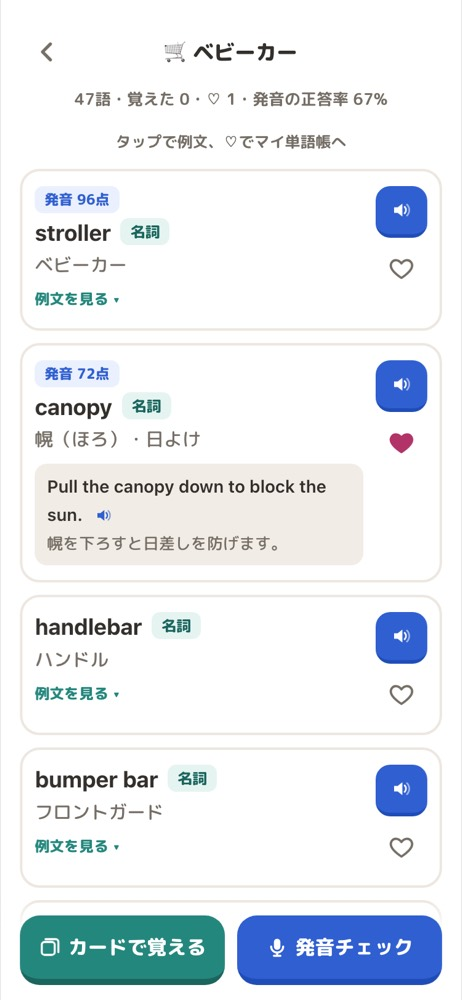
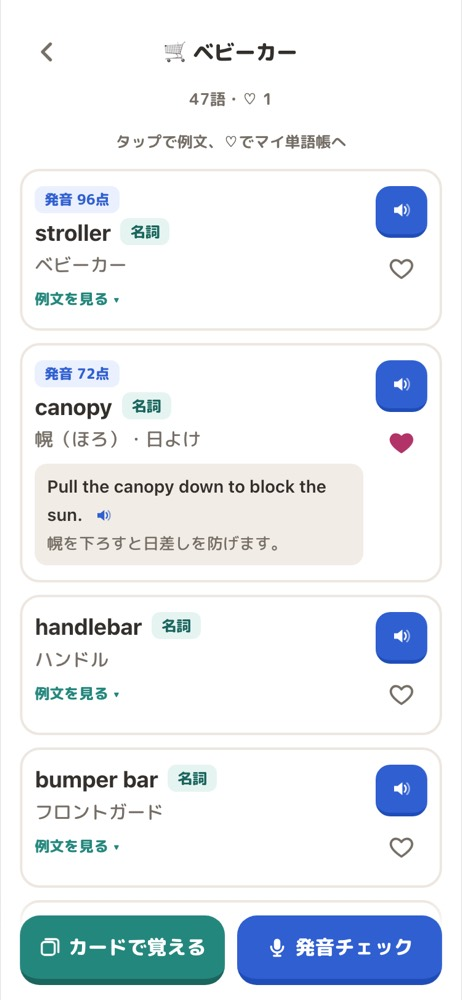
発音チェックの聞き取りを安定させ、短い単語の採点を改善する
- お手本音声を止めるときに音の出口を手放させ、前の聞き取りが終わってから次を始める(「前へ」で戻ると聞き取らない対策)
- 同じ音の聞き違い(brake と break など)や複数形の s は言えたとみなし、r/l や母音の違いは区別する
- 何も聞き取れないまま7秒たったら止めて言い方を案内。こちらから止めたときの aborted はエラーにしない
- カテゴリ一覧とホームから「覚えた」と発音の正答率を外した(正答率は発音チェックの中だけ)
- 確認用サーバーのポートを 8770 に変更(8765 は別のツールが使用)

Changed region(s): [[0.2727, 0.093, 0.8485, 0.124], [0.1515, 0.093, 0.2424, 0.124]]

diff --git a/index.html b/index.html
@@ -156,7 +156,6 @@
   .cat-name{ font-size:17px; font-weight:800; line-height:1.35; }
   .cat-desc{ font-size:12.5px; color:var(--sub); font-weight:700; }
   .cat-count{ display:flex; flex-direction:column; align-items:flex-end; flex-shrink:0; font-size:13px; color:var(--sub); font-weight:800; }
-  .cat-count .learned{ color:var(--accent); font-size:11.5px; }
   /* 例文・メモはふだん閉じておき、行をタップしたら開く(単語をぱっと見渡せるように) */
   .item-row:not(.open) .item-details{ display:none; }
   .item-row.open .item-more{ display:none; }
@@ -593,7 +592,14 @@ function speak(text, slow){
 }
 function stopSpeech(){
   if("speechSynthesis" in window) window.speechSynthesis.cancel();
-  if(currentAudio){ currentAudio.pause(); currentAudio = null; }
+  if(currentAudio){
+    const a = currentAudio;
+    currentAudio = null;
+    a.pause();
+    // iPhone では、音声を流したあとにすぐマイクを使うと音を拾えないことがある。中身を外して音の出口を手放させる
+    a.removeAttribute("src");
+    try{ a.load(); }catch(e){}
+  }
 }
 /* 収録済みの単語・例文は、AIで作ったお手本音声(audio/)を鳴らす。音声ファイルが無いもの(自作単語・音声を作る前に足した項目)や、
    文言を書き換えて音声と合わなくなったものは、端末の読み上げにする */
@@ -789,14 +795,13 @@ function renderHomeBody(){
   }
   const tile = c => {
     const items = itemsOfCat(c.id);
-    const learned = items.filter(isLearned).length;
     return `<button class="cat-tile" data-cat="${c.id}">
       <span class="cat-icon" aria-hidden="true">${c.icon}</span>
       <span class="cat-text">
         <span class="cat-name">${esc(c.name)}</span>
         <span class="cat-desc">${esc(c.desc)}</span>
       </span>
-      <span class="cat-count">${items.length}${c.kind === "phrase" ? "フレーズ" : "語"}${learned ? `<span class="learned">覚えた ${learned}</span>` : ""}</span>
+      <span class="cat-count">${items.length}${c.kind === "phrase" ? "フレーズ" : "語"}</span>
     </button>`;
   };
   body.innerHTML = `
@@ -815,11 +820,10 @@ function renderCategory(){
   const c = catById(currentCatId);
   if(!c){ go("home"); return; }
   const items = itemsOfCat(c.id);
+  // 「覚えた」はマイ単語帳で付けるもの、発音の正答率は発音チェックの中で見せるものなので、ここには出さない
   const summary = () => {
-    const learned = items.filter(isLearned).length;
     const fav = items.filter(isFav).length;
-    const rate = pronRate(items);
-    return `${items.length}${c.kind === "phrase" ? "フレーズ" : "語"}・覚えた ${learned}${fav ? `・♡ ${fav}` : ""}${rate === null ? "" : `・発音の正答率 ${rate}%`}`;
+    return `${items.length}${c.kind === "phrase" ? "フレーズ" : "語"}${fav ? `・♡ ${fav}` : ""}`;
   };
   app.innerHTML = `
     <div class="topbar">
@@ -1362,6 +1366,7 @@ const PRON_PASS = 80;
 const SpeechRec = window.SpeechRecognition || window.webkitSpeechRecognition || null;
 let pron = null;       // 発音チェックの進行
 let currentRec = null; // 聞き取り中の音声認識
+let recRunning = 0; // 終わりきっていない聞き取りの数(前のが終わる前に次を始めると、iPhone では失敗することがある)
 function stopListening(){
   if(!currentRec) return;
   const r = currentRec;
@@ -1393,8 +1398,25 @@ function lev(a, b){
   return prev[b.length];
 }
 const strSim = (a, b) => (a.length || b.length) ? 1 - lev(a, b) / Math.max(a.length, b.length) : 1;
+// 発音の近さを比べるための簡単な「音のかたち」。nap と knap、canopy と kanopy のような、つづりだけの違いを同じにする。
+// 母音の違い(seat と sit、crib と crab)や、r と l、b と v は区別する(日本人が間違えやすい所なので甘くしない)
+function soundKey(word){
+  let w = String(word).toLowerCase().replace(/[^a-z]/g, "");
+  if(w.length > 3) w = w.replace(/e$/, "");
+  w = w.replace(/^(kn|gn|pn|wr)/, m => m[1])
+    .replace(/ph/g, "f").replace(/gh(?![aeiou])/g, "").replace(/ck/g, "k").replace(/tch/g, "ch").replace(/dge/g, "j")
+    .replace(/(t|s)ion/g, "shan").replace(/c(?=[eiy])/g, "s").replace(/c/g, "k").replace(/q/g, "k").replace(/x/g, "ks")
+    .replace(/z/g, "s").replace(/wh/g, "w");
+  if(!w) return "";
+  const head = /[aeiouy]/.test(w[0]) ? "a" : w[0];
+  return (head + w.slice(1).replace(/[aeiouy]+/g, m => m[0] === "y" ? "i" : m[0])).replace(/(.)\1+/g, "$1");
+}
+// 同じ音の別の単語。音声認識はよく使うほうの単語で返してくるので、収録語でよく起きる聞き違いは言えたとみなす
+const HOMOPHONES = { "break":"brake", "wait":"weight", "way":"weigh", "sail":"sale", "seam":"seem", "plain":"plane",
+  "pare":"pair", "pear":"pair", "hole":"whole", "wear":"where", "four":"for", "to":"two", "too":"two", "right":"write", "buy":"by", "bye":"by" };
+const sameSound = (a, b) => soundKey(a) === soundKey(b) || HOMOPHONES[a] === b || HOMOPHONES[b] === a || (HOMOPHONES[a] && HOMOPHONES[a] === HOMOPHONES[b]);
 // 単語が「言えた」とみなすか(複数形などの小さな違いは許す)
-const sameWord = (a, b) => a === b || (a.length > 3 && strSim(a, b) >= 0.75);
+const sameWord = (a, b) => a === b || (a.length > 3 && strSim(a, b) >= 0.75) || (a.length > 2 && sameSound(a, b));
 // お手本の各単語が、聞き取れた言葉の中に順番どおり出てきたか
 function matchedWords(T, H){
   const dp = Array.from({ length:T.length + 1 }, () => new Array(H.length + 1).fill(0));
@@ -1418,7 +1440,13 @@ function scorePron(target, heard){
   if(T.length === 1){
     // 1語のときは、前後に余計な言葉(the など)が付いても下げない。2語に分かれて聞こえた場合(highchair など)も見る
     const cands = [H.join(" "), H.join(""), ...H, ...H.slice(1).map((h, k) => H[k] + h)];
-    sim = Math.max(...cands.map(c => strSim(T[0], c)));
+    // 短い単語は1文字違いでも別の単語になる(frame と flame、lock と rock)ので、つづりの近さは厳しめに見る。
+    // そのかわり、音が同じもの(break と聞き取られた brake)と、複数形の s が付いただけのものは言えたとみなす
+    const t = T[0];
+    sim = Math.max(...cands.map(c => Math.max(
+      Math.pow(strSim(t, c), 1.6),
+      c === t + "s" || t === c + "s" ? 0.95 : 0,
+      sameSound(t, c) ? 0.92 : 0)));
     hits = [sim >= PRON_PASS / 100];
   } else {
     hits = matchedWords(T, H);
@@ -1441,12 +1469,6 @@ function recordPron(w, score){
   s.best = Math.max(s.best, score);
   state.pron[w.id] = s;
   saveState();
-}
-// これまでの発音チェックの正答率(80点以上だった回数の割合)。まだ1回もしていなければ null
-function pronRate(items){
-  let n = 0, ok = 0;
-  items.forEach(w => { const s = state.pron[w.id]; if(s){ n += s.n; ok += s.ok; } });
-  return n ? Math.round(100 * ok / n) : null;
 }
 // iPhone で音声の聞き取り(マイク)が使えるのは Safari だけ。Chrome・Firefox や、LINE などのアプリの中の画面では
 // 許可の確認も出ずに止まってしまうので、始める前に Safari で開き直すよう案内する
@@ -1592,12 +1614,26 @@ function renderPron(){
     if(st === "recording"){ if(currentRec){ try{ currentRec.stop(); }catch(e){} } return; } // ■で話し終わり
     if(st === "starting" || st === "scoring") return;
     stopSpeech(); // お手本の音を拾わないように止める
+    // 前の聞き取りが終わりきっていなければ、終わるのを少し待ってから始める
+    if(recRunning > 0){
+      setMic("starting");
+      const waitStart = Date.now();
+      const wait = setInterval(() => {
+        if(recRunning > 0 && Date.now() - waitStart < 1500) return;
+        clearInterval(wait);
+        recRunning = 0;
+        if(micBtn.isConnected){ micBtn.dataset.state = "idle"; micBtn.onclick(); }
+      }, 100);
+      return;
+    }
     const rec = new SpeechRec();
     rec.lang = "en-US";
     rec.interimResults = true;
     rec.maxAlternatives = 5;
     rec.continuous = true; // ■を押すか、黙るまで聞き続ける(途中で勝手に切れないように)
-    let finals = [], alts = [], interim = "", err = null, maxTimer = null, silenceTimer = null, started = false;
+    // 「この言葉が来るはず」というヒントを渡せるブラウザでは渡す(短い単語の聞き違いを減らす)
+    try{ if("SpeechRecognitionPhrase" in window) rec.phrases = [new window.SpeechRecognitionPhrase(w.en, 5.0)]; }catch(e){}
+    let finals = [], alts = [], interim = "", err = null, maxTimer = null, silenceTimer = null, noSpeechTimer = null, started = false, gotResult = false;
     // うまく動かないときに原因を探れるよう、届いた合図を記録しておく(失敗したときに小さく表示する)
     const t0 = Date.now(), diag = [];
     const note = name => { if(diag.length < 12) diag.push(`${name}@${((Date.now() - t0) / 1000).toFixed(1)}`); };
@@ -1622,6 +1658,8 @@ function renderPron(){
       setMic("recording");
       interimEl.textContent = "";
       maxTimer = setTimeout(stopRec, MAX_MS);
+      // 何も聞き取れないまま待ち続けないよう、しばらくしたら止めて言い方を案内する
+      noSpeechTimer = setTimeout(() => { if(!gotResult) stopRec(); }, 7000);
     };
     rec.onstart = () => { note("start"); markStarted(); };
     rec.onaudiostart = () => { note("audio"); markStarted(); };
@@ -1630,6 +1668,7 @@ function renderPron(){
     rec.onresult = e => {
       note("result");
       markStarted();
+      gotResult = true;
       finals = []; alts = []; interim = "";
       for(let i = 0; i < e.results.length; i++){
         const r = e.results[i];
@@ -1643,8 +1682,15 @@ function renderPron(){
       clearTimeout(silenceTimer);
       silenceTimer = setTimeout(stopRec, SILENCE_MS);
     };
-    rec.onerror = e => { err = e.error || "error"; note("error"); };
+    rec.onerror = e => {
+      note("error");
+      // こちらから止めたとき(aborted)や、声が聞こえなかったとき(no-speech)は、エラーではなく「聞き取れなかった」として扱う
+      if(e.error === "aborted" || e.error === "no-speech") return;
+      err = e.error || "error";
+    };
     rec.onend = () => {
+      recRunning = Math.max(0, recRunning - 1);
+      clearTimeout(noSpeechTimer);
       clearTimeout(hintTimer);
       clearTimeout(giveUpTimer);
       clearTimeout(maxTimer);
@@ -1658,6 +1704,7 @@ function renderPron(){
           : err === "service-not-allowed" ? "音声の聞き取りが使えません<small>iPhone は「設定 → 一般 → キーボード → 音声入力」と「設定 → Siri」をオンにしてください</small>"
           : err === "network" ? "通信できませんでした<small>インターネットにつながっているか確認してください</small>"
           : err === "audio-capture" ? "マイクが見つかりませんでした<small>ほかのアプリがマイクを使っていないか確認してください</small>"
+          : started ? `聞き取れませんでした<small>少しゆっくり、はっきり言ってみてください。${pronTokens(w.en).length === 1 ? `短い単語は「the ${esc(w.en)}」のように前に the を付けて言っても大丈夫です` : ""}</small>`
           : "聞き取れませんでした<small>マイクをタップして、「録音中」と出てから話してください</small>") + (started && !err ? "" : diagText()));
         return;
       }
@@ -1673,7 +1720,7 @@ function renderPron(){
     };
     currentRec = rec;
     setMic("starting");
-    try{ rec.start(); }
+    try{ rec.start(); recRunning++; }
     catch(e){ currentRec = null; setMic("idle", "マイクを使い始められませんでした。もう一度タップしてください"); }
   };
   document.getElementById("btnModel").onclick = () => { stopListening(); setMic("idle"); playEntry(w, "word"); };

diff --git a/README.md b/README.md
@@ -14,10 +14,10 @@
 
 ```
 cd BabyShopEnglish
-python3 -m http.server 8765
+python3 -m http.server 8770 --bind 127.0.0.1
 ```
 
-ブラウザで http://localhost:8765/ を開く。
+ブラウザで http://127.0.0.1:8770/ を開く。
 
 ## 保存について
 
